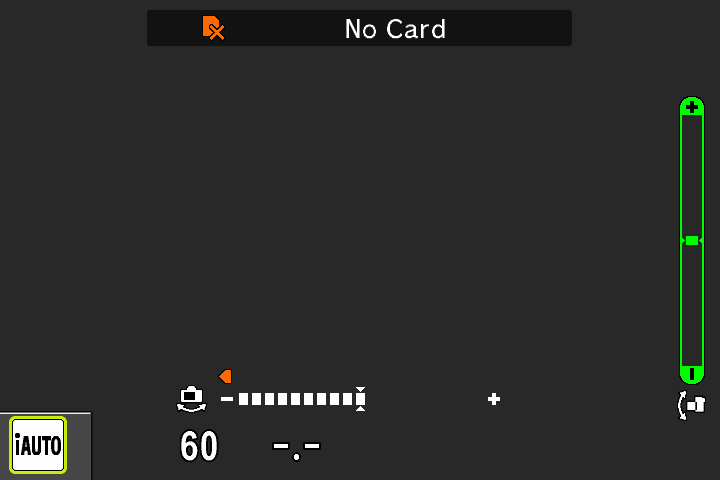
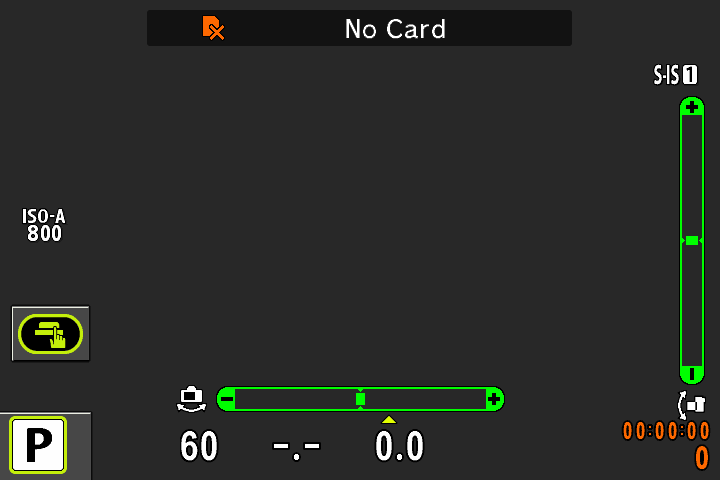
feat: pin gauge-info-3, the level gauge screen keeps the shooting information as the PEN-F does (issue #1)
Camera-tested 2026-11-19; guide, screenshot, camera log, feasibility, TODO.

diff --git a/data/builds/README.md b/data/builds/README.md
@@ -18,10 +18,11 @@ All firmware that goes on a camera is made this way. The procedure for a new bui
 <!-- BEGIN GENERATED: builds -->
 | Build | What | Patch specs | Camera-tested | sha256 |
 |---|---|---|---|---|
[9 lines of base64/hex data omitted]

diff --git a/docs/user/install.md b/docs/user/install.md
@@ -1,12 +1,12 @@
 # Install
 
 <!-- BEGIN GENERATED: pinned-build -->
-The installer and `install` write the firmware **`epm2mod-2026.11.19`**: the twelve Olympus art filters unchanged; film simulations loaded from the SD card with Custom Menu J, Load Looks, overwrite the entries the file lists; interval shooting with up to 240 frames, a level gauge with calibration, and focus peaking; a Debug Log row in Custom Menu J (Off by default) that writes EPM2LOG.BIN to the card for developers; a Lowest S/S Setting row in Custom Menu E (the shutter speed at which ISO Auto starts to rise in P and A); the Firmware screen shows the build's label (Body : 1.6 EPM2Mod 2026.11.19). We tested this build on a real E-PM2 on 2026-11-19 ([camera log](../camera-log/)).
+The installer and `install` write the firmware **`gauge-info-3`**: the twelve Olympus art filters unchanged; film simulations loaded from the SD card with Custom Menu J, Load Looks, overwrite the entries the file lists; interval shooting with up to 240 frames, a level gauge with calibration that keeps the shooting information of the histogram screen (as the PEN-F does), and focus peaking; a Debug Log row in Custom Menu J (Off by default) that writes EPM2LOG.BIN to the card for developers; a Lowest S/S Setting row in Custom Menu E (the shutter speed at which ISO Auto starts to rise in P and A); the Firmware screen shows the build's label (Body : 1.6 EPM2Mod 2026.11.19). We tested this build on a real E-PM2 on 2026-11-19 ([camera log](../camera-log/)).
 
 | | sha256 |
 |---|---|
[3 lines of base64/hex data omitted]
 <!-- END GENERATED: pinned-build -->
 
 The install steps are in the [README](../../README.md#install).

diff --git a/docs/camera-log/2026-11-19-gauge-info-3.md b/docs/camera-log/2026-11-19-gauge-info-3.md
@@ -2,4 +2,4 @@
 
 | Date (UTC) | Build | sha256 | Result |
 |---|---|---|---|
[2 lines of base64/hex data omitted]

diff --git a/docs/dev/feasibility.md b/docs/dev/feasibility.md
@@ -83,6 +83,10 @@ Other Olympus generations, and what each can be modded to do: [model-matrix.md](
 - ~~Level gauge~~ **Done on 2026-11-14 with three data edits and no code.** The whole feature was in
   the firmware; only a menu row was missing. Lesson: compare with the E-PL6 first. It shares 58,642
   identical functions with this body (the E-P5: 21,940).
+- ~~Shooting information on the level gauge screen~~ **Done on 2026-11-19** (`gauge-info`, `gauge-bar-left-2`; GitHub
+  issue #1). Data edits only: eleven layout lists of the live-view producers get the gauge's layout, and the bar's
+  position when the camera is held vertically moves inward, as the PEN-F places it
+  (`experiments/2026-11-19-gauge-info/NOTES.md`).
 - The other E-PL6 additions (small AF target, ISO LOW), ported as interval shooting was.
 - A simple on-camera editor made from existing menu lists.
 

diff --git a/TODO.md b/TODO.md
@@ -11,7 +11,7 @@ Test releases up to v2026.11.19-rc.2. Open: the final release.
 
 - Level Adjust works (2026-11-14). Not yet reported: the calibration after power off and on, and
   Reset.
-- Not yet reported: the gauge in portrait orientation, and the info menu of an electronic
+- Not yet reported: the info menu of an electronic
   viewfinder (the new row re-uses the unused panel 594, "EVF Info Settings").
 
 ## Focus peaking
